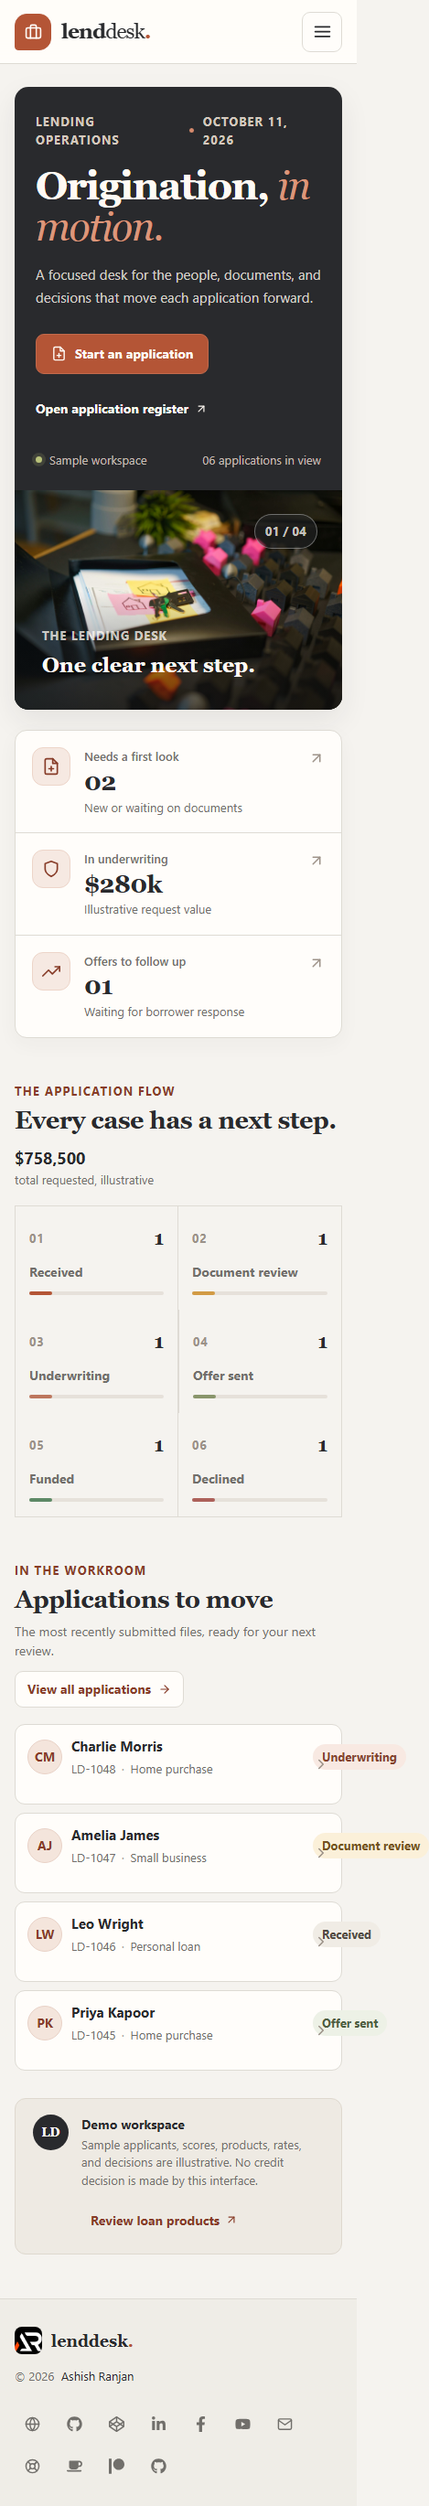
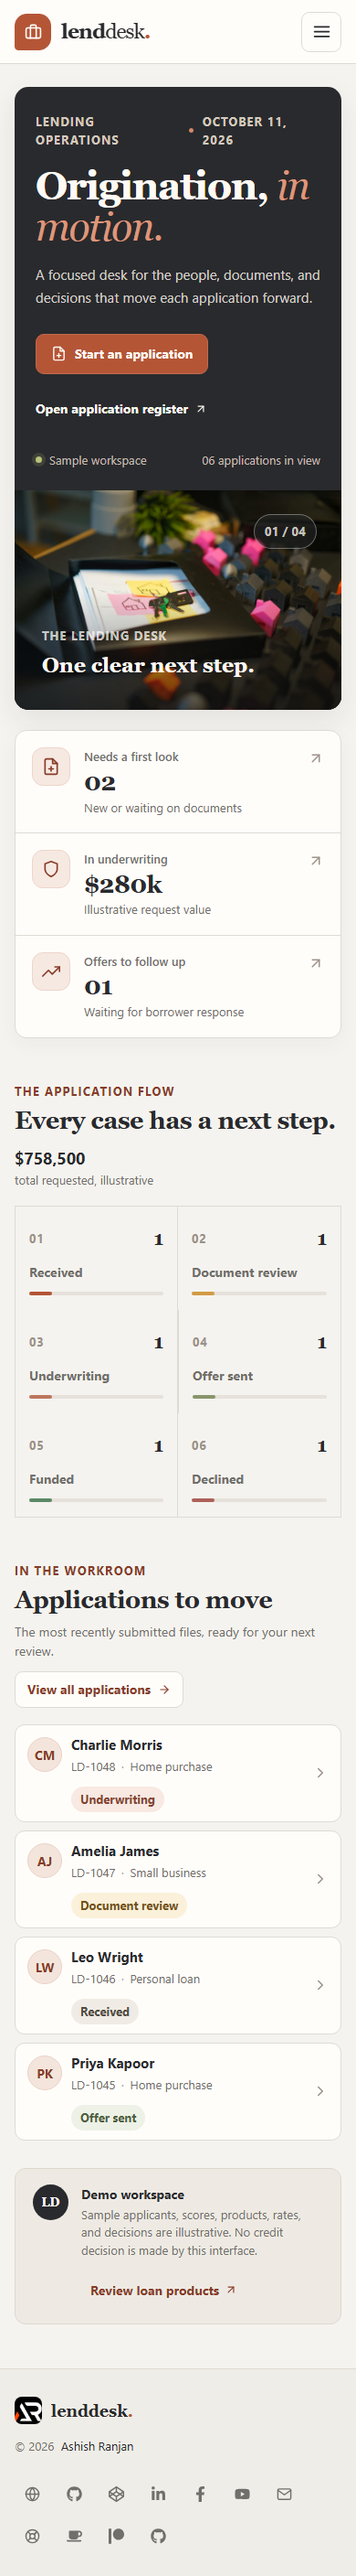
Fix mobile loan application layouts

diff --git a/src/components/applicationRow/styles.module.css b/src/components/applicationRow/styles.module.css
@@ -156,6 +156,12 @@
         &.compact {
             min-height: 88px;
             grid-template-columns: 36px minmax(100px, 1fr) 18px;
+
+            .status {
+                grid-column: 2;
+                grid-row: 2;
+                justify-self: start;
+            }
         }
     }
 }

diff --git a/src/pages/applicationDetail/styles.module.css b/src/pages/applicationDetail/styles.module.css
@@ -509,7 +509,7 @@
             background: #fff;
             border: 1px solid #c9c0b7;
             border-radius: 50%;
-            font-size: 12px;
+            font-size: 13px;
             place-items: center;
 
             &.timelineDone {
